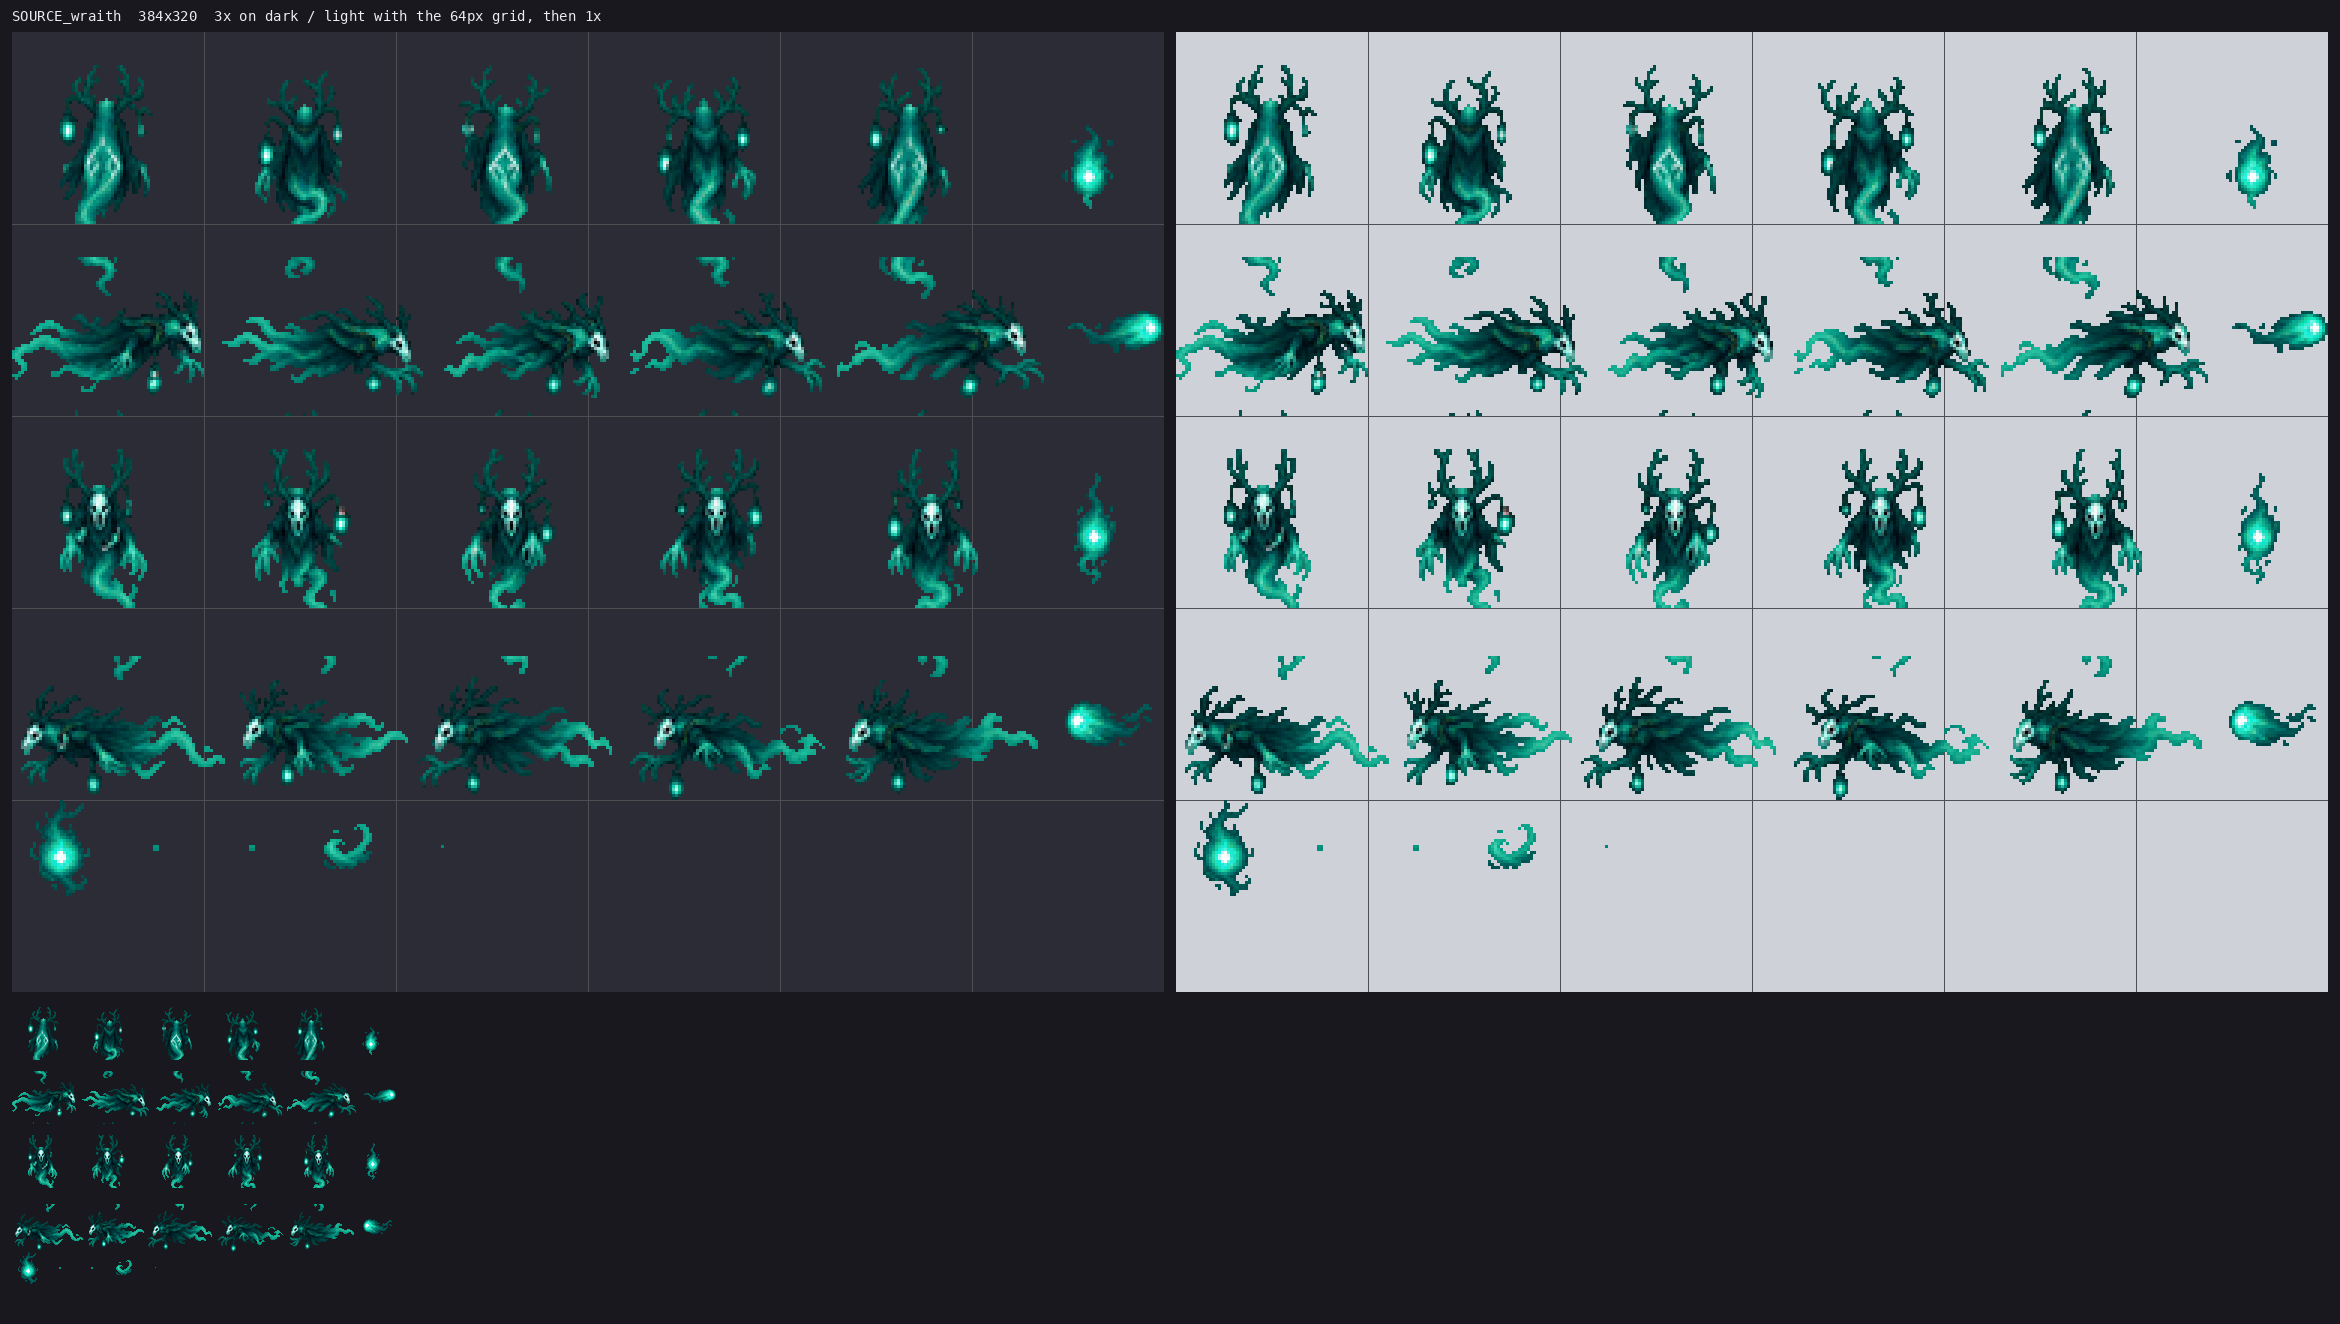
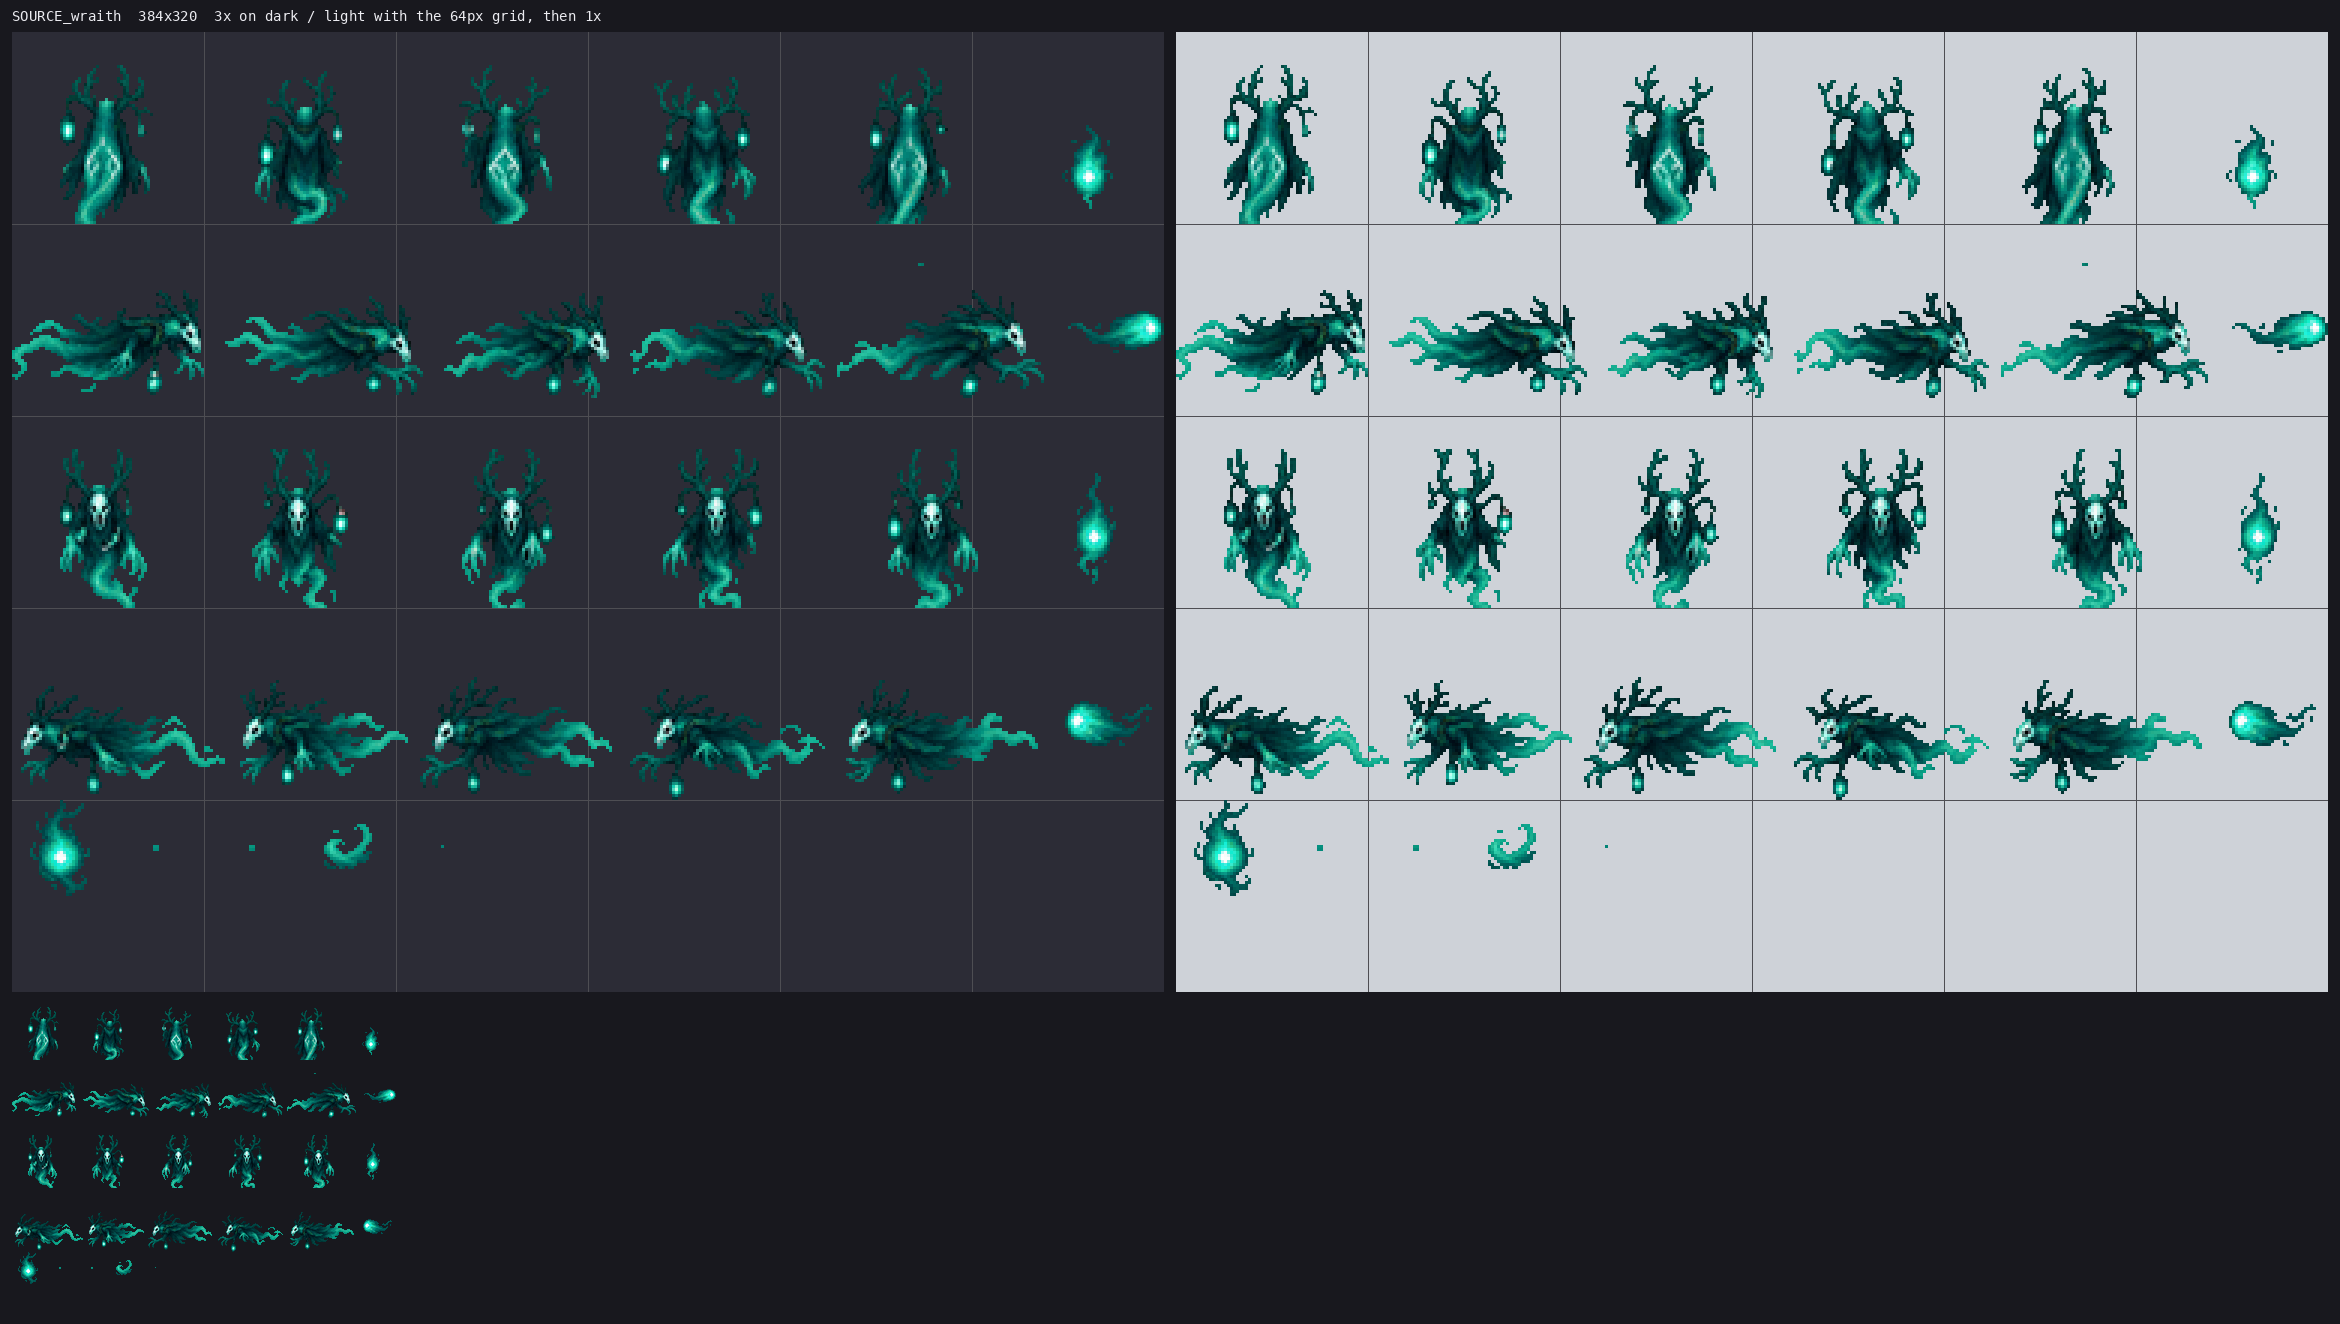
resheet_mob: cut overlapping rows apart by blob ownership
The player, on the wraith: "in zeile 2 siehst du, dass dann von zeile 1 und
zeile 3 der untere und obere teil mit reinragen, die man entfernen muss
eigentlich". Right, and it is not fixable by moving the crop: the rows genuinely
overlap in the source -- row 0's smoke trails hang into row 1 and row 2's legs
poke up into it -- so any rectangle that contains one row contains parts of its
neighbours.

So the rows are separated before cropping, by connected component: each blob is
assigned to whichever band holds the MOST of its pixels, and a band is drawn
from its own blobs alone. A trail that really belongs to its sprite is the same
blob and stays attached; a stray piece from the row above is a different blob
and goes back there. 8-way connectivity, because a sprite's outline diagonals
must not split it into pieces.

Implemented on numpy alone -- scipy is not installed here and is not worth a new
dependency for one labelling pass.

All four sheets regenerated. The wraith is the visible win: its side rows now
carry no hanging trails from above and no legs from below.

Claude-Session: https://claude.ai/code/session_01HnNZ8fgewte9549T5gLwyk

diff --git a/tools/resheet_mob.py b/tools/resheet_mob.py
@@ -140,6 +140,82 @@ def opaque_bbox(im, box, alpha=40):
     return (min(xs), min(ys), max(xs) + 1, max(ys) + 1)
 
 
+def label_components(im, alpha=40):
+    """Connected components of the opaque pixels -> (labels, count).
+
+    numpy-only iterative flood fill (scipy is not a dependency here). 8-way,
+    because a sprite's outline diagonals must not split it into pieces.
+    """
+    import numpy as np
+    a = np.array(im)[:, :, 3] >= alpha
+    h, w = a.shape
+    labels = np.zeros((h, w), dtype=np.int32)
+    n = 0
+    ys, xs = np.nonzero(a)
+    for sy, sx in zip(ys, xs):
+        if labels[sy, sx]:
+            continue
+        n += 1
+        stack = [(sy, sx)]
+        labels[sy, sx] = n
+        while stack:
+            y, x = stack.pop()
+            for dy in (-1, 0, 1):
+                for dx in (-1, 0, 1):
+                    ny, nx = y + dy, x + dx
+                    if 0 <= ny < h and 0 <= nx < w and a[ny, nx] and not labels[ny, nx]:
+                        labels[ny, nx] = n
+                        stack.append((ny, nx))
+    return labels, n
+
+
+def isolate_rows(im, row_spans, alpha=40):
+    """One image per row band, holding ONLY the blobs that belong to it.
+
+    A generated sheet's rows overlap: the wraith's smoke trails from row 0 hang
+    down into row 1, and row 2's legs poke up into it. A rectangular crop takes
+    the neighbours with it, and the player caught exactly that -- "in zeile 2
+    siehst du, dass dann von zeile 1 und zeile 3 der untere und obere teil mit
+    reinragen, die man entfernen muss eigentlich".
+
+    So a blob is assigned to whichever band holds the MOST of its pixels, and a
+    band's image is drawn from its own blobs alone. A trail that genuinely
+    belongs to its sprite stays attached (it is the same blob); a stray piece
+    from the row above is a separate blob and goes to the row above.
+    """
+    import numpy as np
+    labels, n = label_components(im, alpha)
+    if n == 0:
+        return [im.copy() for _ in row_spans], 0
+    owner = {}
+    for lab in range(1, n + 1):
+        ys = np.nonzero((labels == lab).any(axis=1))[0]
+        if not len(ys):
+            continue
+        best, best_n = 0, -1
+        for ri, (y0, y1) in enumerate(row_spans):
+            c = int(((ys >= y0) & (ys < y1)).sum())
+            if c > best_n:
+                best, best_n = ri, c
+        owner[lab] = best
+    src = np.array(im)
+    outs, moved = [], 0
+    for ri in range(len(row_spans)):
+        mine = np.isin(labels, [l for l, o in owner.items() if o == ri])
+        buf = src.copy()
+        buf[~mine] = 0
+        outs.append(Image.fromarray(buf, "RGBA"))
+        moved += sum(1 for l, o in owner.items()
+                     if o == ri and not _within(labels, l, row_spans[ri]))
+    return outs, moved
+
+
+def _within(labels, lab, span):
+    import numpy as np
+    ys = np.nonzero((labels == lab).any(axis=1))[0]
+    return len(ys) and ys.min() >= span[0] and ys.max() < span[1]
+
+
 def split_even(lo, hi, n):
     """n equal slices of [lo, hi) -> [(start, end)]."""
     step = (hi - lo) / float(n)
@@ -211,7 +287,7 @@ def analyse(im, want_rows=ROWS, cols=COLS, alpha=40):
         notes.append("%d row(s) split into %d even columns" % (even_cols, cols))
     if gib:
         notes.append("%d gib chunk(s) found" % len(gib))
-    return out, "; ".join(notes), gib
+    return out, "; ".join(notes), gib, list(use_rows)
 
 
 def mirror_row(sheet, src_row, dst_row, cell=CELL, cols=COLS):
@@ -240,7 +316,8 @@ def mirror_row(sheet, src_row, dst_row, cell=CELL, cols=COLS):
     return sheet
 
 
-def resheet(im, rows, cell=CELL, cols=COLS, want_rows=ROWS, gib=None):
+def resheet(im, rows, cell=CELL, cols=COLS, want_rows=ROWS, gib=None,
+            row_spans=None, alpha=40, isolate=True):
     """Scale the WHOLE sheet once so its content spans exactly cols*cell, then
     slide each row down into its own band.
 
@@ -268,9 +345,16 @@ def resheet(im, rows, cell=CELL, cols=COLS, want_rows=ROWS, gib=None):
     right = max(b[2] for r in usable for b in r)
     scale = (cols * cell) / float(right - left)
 
+    # Cut the rows apart by BLOB OWNERSHIP before cropping, so a neighbour's
+    # overhang does not ride along in the rectangle.
+    layers = None
+    if isolate and row_spans and len(row_spans) >= want_rows:
+        layers, _ = isolate_rows(im, row_spans[:want_rows], alpha)
+
     sheet = Image.new("RGBA", TARGET, (0, 0, 0, 0))
     strips = []
     for ri, row in enumerate(usable):
+        src = layers[ri] if layers else im
         top = min(b[1] for b in row)
         bot = max(b[3] for b in row)
         # Crop to THIS ROW's own horizontal extent, not the sheet's. A row that
@@ -278,7 +362,7 @@ def resheet(im, rows, cell=CELL, cols=COLS, want_rows=ROWS, gib=None):
         # canvas -- which is exactly what happened on the plain yak's LEFT row.
         rl = min(b[0] for b in row)
         rr = max(b[2] for b in row)
-        strip = im.crop((rl, top, rr, bot))
+        strip = src.crop((rl, top, rr, bot))
         sw = max(1, round((rr - rl) * scale))
         sh = max(1, round((bot - top) * scale))
         strip = strip.resize((sw, sh), Image.LANCZOS)
@@ -293,6 +377,8 @@ def resheet(im, rows, cell=CELL, cols=COLS, want_rows=ROWS, gib=None):
         sheet.alpha_composite(strip, (dx, dy))
 
     note = "one scale %.4f over the full %dpx content width" % (scale, right - left)
+    if layers:
+        note += "; rows isolated by blob ownership"
 
     # The gib strip: 32px cells at y256, up to five of them (FleshParticle
     # reads sprite row 8). Generators put it under the animation rows; it is
@@ -360,6 +446,9 @@ def main():
                     help="report the detected rows and sprites, write nothing")
     ap.add_argument("--tol", type=int, default=42,
                     help="background keying tolerance (default 42)")
+    ap.add_argument("--no-isolate", action="store_true",
+                    help="skip blob-ownership row separation (faster; only "
+                         "safe when the rows genuinely do not overlap)")
     ap.add_argument("--mirror-left", action="store_true",
                     help="build the LEFT row by mirroring RIGHT cell by cell, "
                          "when the two side views did not come out as the same "
@@ -374,7 +463,7 @@ def main():
     print("%s  %dx%d" % (os.path.basename(args.src), im.width, im.height))
     print("  %s" % note)
 
-    rows, how, gib = analyse(keyed, alpha=args.alpha)
+    rows, how, gib, spans = analyse(keyed, alpha=args.alpha)
     print("  %s" % how)
     for i, r in enumerate(rows):
         hs = [b[3] - b[1] for b in r]
@@ -382,7 +471,8 @@ def main():
     if args.inspect:
         return 0
 
-    sheet, msg = resheet(keyed, rows, gib=gib)
+    sheet, msg = resheet(keyed, rows, gib=gib, row_spans=spans,
+                         alpha=args.alpha, isolate=not args.no_isolate)
     print("  %s" % msg)
     if sheet is None:
         return 1

diff --git a/art-drafts/resheet-2026-09-02/README.md b/art-drafts/resheet-2026-09-02/README.md
@@ -38,6 +38,15 @@ The first version was wrong in three ways; all three are fixed in
 3. **The gib strip was dropped entirely.** The five death chunks now land in
    32 px cells at y256, where FleshParticle reads them.
 
+4. **Overlapping rows dragged their neighbours along.** The player, on the
+   wraith: *"in zeile 2 siehst du, dass dann von zeile 1 und zeile 3 der untere
+   und obere teil mit reinragen, die man entfernen muss eigentlich"*. A
+   rectangular crop cannot separate rows that overlap. Rows are now cut apart by
+   BLOB OWNERSHIP — each connected component goes to the band holding most of
+   its pixels — so a trail that belongs to its sprite stays attached while a
+   stray piece from the row above goes back to the row above. `--no-isolate`
+   skips it.
+
 `--mirror-left` was added for the player's other fix: building the LEFT row by
 mirroring RIGHT cell by cell, when a generator drew the two side views as two
 different animals. Cell by cell, never the whole strip — flipping the strip
